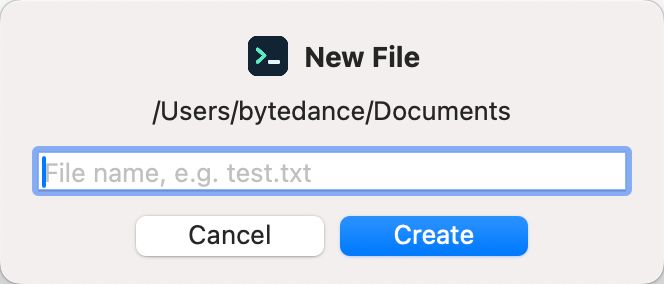
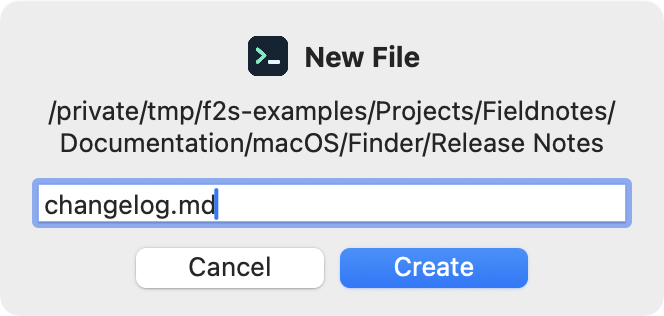
Refresh Finder screenshots and streamline the README

diff --git a/README.md b/README.md
@@ -1,44 +1,38 @@
 # f2s
 
-f2s 在 macOS Finder 工具栏中添加一个原生下拉菜单，方便你在当前文件夹打开终端、复制路径或创建文件。
+从 Finder 工具栏用终端打开当前文件夹、复制路径或新建文件。支持 macOS 11 及以上版本，适用于 Apple 芯片和 Intel Mac。
 
-支持 macOS 11 及以上版本，安装包同时包含 Apple 芯片和 Intel 架构。
+<p>
+  <img src="docs/images/finder-toolbar-menu.png" width="219" alt="Finder 工具栏中的 f2s 菜单，依次为 Open Shell、Copy Path、New File… 和 Quit f2s">
+  <img src="docs/images/new-file-dialog.png" width="332" alt="New File 弹窗中，Release Notes 的完整目录路径分两行显示，文件名为 changelog.md">
+</p>
 
-## 安装与使用
+## 安装
 
-1. [下载最新版 f2s.dmg](https://github.com/yuki-node/f2s/releases/latest/download/f2s.dmg)，双击打开，将左侧的 **f2s** 拖到右侧的 **Applications（应用程序）** 文件夹。如果替换旧版时提示正在使用，请先在旧版菜单中选择 **Quit f2s**（如有）。
-2. 从系统「应用程序」打开刚拷入的 **f2s**。如果升级后打开 f2s 会直接弹出终端，请检查个人「应用程序」（`~/Applications`）里是否还留有早期的 f2s。确认系统「应用程序」中已有新版后，可将个人目录中的旧版移到废纸篓。
-   如果看到「未打开 ‘f2s’」且提示 Apple 无法验证应用，先点「完成」。确认下载来源可信后，双击 DMG 中的 **首次打开说明.html**，点击其中的链接打开「隐私与安全性」。也可以从苹果菜单进入「系统设置」→「隐私与安全性」，在「安全性」下找到 f2s，点「仍要打开」并按提示确认。[Apple 官方说明](https://support.apple.com/zh-cn/102445)
-   首次启动后，点「启用 f2s」直接启用 Finder 扩展。如果看到「f2s 已启用」，点「好」即可。随后可以推出磁盘映像。
-3. 在 Finder 中打开文件夹，点击工具栏的 **f2s** 图标即可使用。若扩展已启用但按钮仍不可见，可在 Finder 的「显示 → 自定义工具栏」中添加 f2s。
+1. [下载最新版 f2s.dmg](https://github.com/yuki-node/f2s/releases/latest/download/f2s.dmg) 并双击打开。
+2. 将 **f2s** 拖到 **Applications（应用程序）**。
+3. 从「应用程序」打开 **f2s**，点击「启用 f2s」。
 
-f2s 优先使用 macOS 为 Unix 可执行文件登记的默认终端（Shell 角色）。如果你使用 iTerm2，可在其应用菜单中选择 **Make iTerm2 Default Term**。如果该关联不可用，f2s 会尝试与 `.command` 文件关联的终端，最后回退到系统「终端」。
+## 使用
 
-如果系统阻止 Finder 扩展直接打开文件夹，f2s 主应用会核对当前 Finder 路径并重试。首次重试时，macOS 可能询问是否允许 f2s 访问 Finder。
+在 Finder 中打开一个文件夹，点击工具栏上的 **f2s** 图标。
 
-## 工具栏菜单
+| 菜单 | 功能 |
+| --- | --- |
+| **Open Shell** | 用默认终端打开当前文件夹。 |
+| **Copy Path** | 复制当前文件夹的完整路径。 |
+| **New File…** | 输入文件名（如 `notes.txt` 或 `.gitignore`），按回车创建空文件。 |
+| **Quit f2s** | 退出 f2s 并停用 Finder 扩展。 |
 
-<img src="docs/images/finder-toolbar-menu.png" width="320" alt="Finder 工具栏中展开的 f2s 菜单，包含 Open Shell、Copy Path 和 New File…">
-
-- **Open Shell** 在当前文件夹打开用户配置的终端，例如 iTerm2 或系统「终端」。新会话使用该终端配置的 shell。
-- **Copy Path** 将当前文件夹的绝对路径以纯文本复制到剪贴板，保留中文、空格和特殊字符。
-- **New File…** 输入完整文件名（例如 `test.txt`、`test.log` 或 `.gitignore`），按回车即可在当前文件夹创建空文件，并在 Finder 中选中它。同名时可以重新输入。
-- **Quit f2s** 关闭当前账户的 f2s 窗口并停用 Finder 扩展。要恢复工具栏按钮，重新打开 f2s 并选择「启用 f2s」。
-
-<details>
-<summary>查看 New File… 弹窗</summary>
-
-<img src="docs/images/new-file-dialog.png" width="300" alt="New File 弹窗显示当前目录、文件名输入框和 Create 按钮">
-
-</details>
+要使用 iTerm2，可在 iTerm2 菜单中选择 **Make iTerm2 Default Term**。
 
 ## 卸载
 
-如果 Finder 工具栏里有 f2s，先从它的菜单选择 **Quit f2s**。然后在 Finder 的「应用程序」里选中 **f2s**，按 **⌘⌫** 将它移到废纸篓。macOS 通常会自动从启动台移除图标，无需清空废纸篓。如果以前也在个人「应用程序」（`~/Applications`）里安装过 f2s，卸载时请一并检查那份副本。[Apple 卸载说明](https://support.apple.com/zh-cn/102610)
+在工具栏菜单中选择 **Quit f2s**，再将「应用程序」中的 **f2s** 移到废纸篓。
 
 ## 从源码构建
 
-在装有 Xcode Command Line Tools 的 Mac 上运行：
+安装 Xcode Command Line Tools 后，在终端运行以下命令。
 
 ```sh
 git clone https://github.com/yuki-node/f2s.git
@@ -46,20 +40,4 @@ cd f2s
 bash build.sh
 ```
 
-构建产物位于 `build/`，包括 `f2s.app` 和可分发的只读磁盘映像 `f2s.dmg`。每个 GitHub Release 上传一个 `f2s.dmg`，上面的下载链接会指向最新版。
-
-## 项目结构
-
-| 路径 | 内容 |
-| --- | --- |
-| `FinderExtension/` | Finder Sync 扩展，提供原生工具栏按钮和菜单 |
-| `Sources/App/` | 主应用、Finder 目录读取和旧版工具栏迁移 |
-| `Sources/Shared/` | 主应用和扩展共用的终端选择与路径复制逻辑 |
-| `Resources/` | 应用配置、权限声明和图标 |
-| `Installer/` | DMG 的 Finder 窗口布局 |
-
-## 签名与公证
-
-默认构建对应用及其内嵌组件使用本地临时签名，DMG 未经 Developer ID 签名和 Apple 公证。在其他 Mac 上首次打开应用时可能遇到 Gatekeeper 提示。[Apple 安装说明](https://support.apple.com/zh-cn/102445)
-
-使用 Developer ID 分发时，将 `APP_SIGNING_IDENTITY` 设为钥匙串中的 Developer ID Application 证书名称，再执行 `bash build.sh`。同时设置 `NOTARYTOOL_PROFILE` 后，构建脚本会提交 DMG 公证并将票据附加到磁盘映像。
+输出文件为 `build/f2s.app` 和 `build/f2s.dmg`。默认构建使用本地临时签名。使用 Developer ID 签名时，设置 `APP_SIGNING_IDENTITY`。如需 Apple 公证，同时设置 `NOTARYTOOL_PROFILE`。
